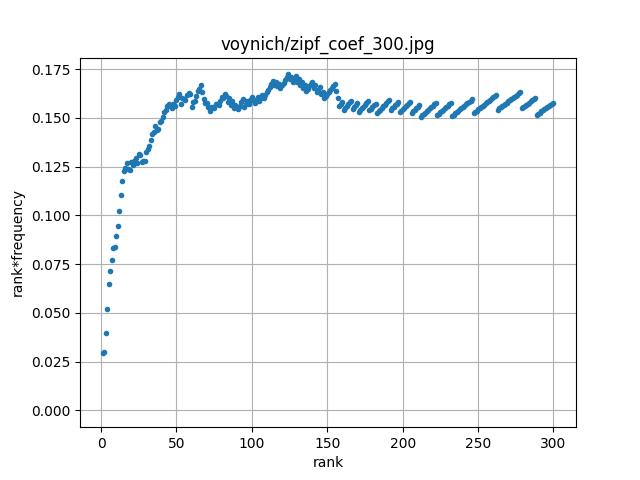
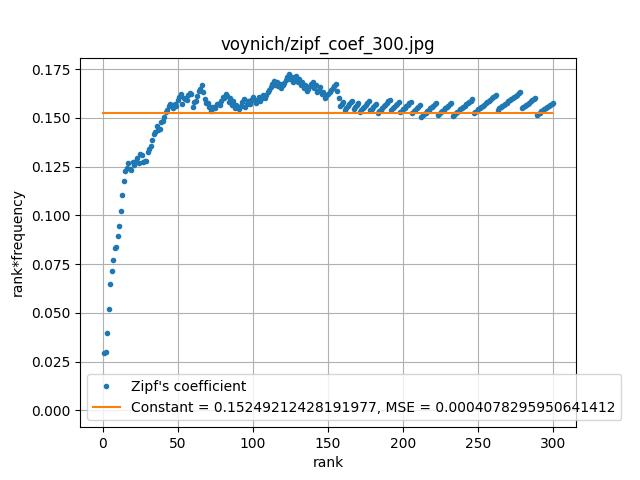
MSE

Changed region(s): [[0.125, 0.1562, 0.9688, 0.9375], [0.5, 0.75, 0.5312, 0.7812]]

diff --git a/zipf_law.py b/zipf_law.py
@@ -9,6 +9,10 @@ import numpy as np
 OUT_PATH = "out"
 
 
+def MSE(data, actual):
+    return (sum([(value - actual)**2 for value in data]))/len(data)
+
+
 def create_zipf_dict(words: List[str]):
     zipf = {}
     for word in words:
@@ -20,11 +24,25 @@ def create_zipf_dict(words: List[str]):
     return dict(sorted(zipf.items(), key=lambda item: -item[1]))
 
 
-def plot(x, y, xlabel, ylabel, path):
+def plot_with_fit(X, Y, xlabel, ylabel, path):
+    constant = np.polyfit(X, Y, 0)
     plt.figure()
-    plt.ylim(0 - max(y) / 20, max(y) + max(y) / 20)
+    plt.ylim(0 - max(Y) / 20, max(Y) + max(Y) / 20)
     plt.grid()
-    plt.plot(x, y, '.')
+    plt.plot(X, Y, '.', label="Zipf's coefficient")
+    plt.plot(list(constant)*len(X), label=f"Constant = {constant[0]}, MSE = {MSE(Y, constant[0])}")
+    plt.legend()
+    plt.xlabel(xlabel)
+    plt.ylabel(ylabel)
+    plt.title(path)
+    plt.savefig(os.path.join(OUT_PATH, path))
+
+
+def plot(X, Y, xlabel, ylabel, path):
+    plt.figure()
+    plt.ylim(0 - max(Y) / 20, max(Y) + max(Y) / 20)
+    plt.grid()
+    plt.plot(X, Y, '.')
     plt.xlabel(xlabel)
     plt.ylabel(ylabel)
     plt.title(path)
@@ -37,16 +55,16 @@ def plot_zipf(words: Dict[str, int], path):
 
     plot(ranks, frequency, "rank", "frequency",
          os.path.join(path, "zipf_all.jpg"))
-    plot(ranks, np.multiply(frequency, ranks), "rank", "rank*frequency",
-         os.path.join(path, "zipf_coef_all.jpg"))
+    plot_with_fit(ranks, np.multiply(frequency, ranks), "rank", "rank*frequency",
+                  os.path.join(path, "zipf_coef_all.jpg"))
     plot(ranks[:300], frequency[:300], "rank", "frequency",
          os.path.join(path, "zipf_300.jpg"))
-    plot(ranks[:300], np.multiply(frequency[:300], ranks[:300]), "rank",
-         "rank*frequency", os.path.join(path, "zipf_coef_300.jpg"))
+    plot_with_fit(ranks[:300], np.multiply(frequency[:300], ranks[:300]), "rank",
+                  "rank*frequency", os.path.join(path, "zipf_coef_300.jpg"))
     plot(ranks[:100], frequency[:100], "rank", "frequency",
          os.path.join(path, "zipf_100.jpg"))
-    plot(ranks[:100], np.multiply(frequency[:100], ranks[:100]), "rank",
-         "rank*frequency", os.path.join(path, "zipf_coef_100.jpg"))
+    plot_with_fit(ranks[:100], np.multiply(frequency[:100], ranks[:100]), "rank",
+                  "rank*frequency", os.path.join(path, "zipf_coef_100.jpg"))
 
 
 def read_voynich_words() -> List[str]:

diff --git a/README.md b/README.md
@@ -28,4 +28,7 @@ Język czeski
 Język z manuskryptu
 
 ### Wniosek
-Wykresy wskazują że dla słów o rangach 50-300 prawo Zipfa dla obu języków jest dobrze spełnione - odchylenia od stałej wartości są niewielkie. W przypadkuj języka z manuskryptu wojnicza, z pominięciem kilku najczęściej występujących słów, są one zauważalnie mniejsze niż w analizowanym czeskim tekście
+Wykresy wskazują że dla słów o rangach 50-300, prawo Zipfa dla obu języków jest dobrze spełnione - odchylenia od stałej wartości są niewielkie. W przypadku języka z manuskryptu Wojnicza, z pominięciem kilku najczęściej występujących słów, są one zauważalnie mniejsze niż w analizowanym czeskim tekście. Wartości błędów średniokwadratowych dla dopasowanej przy użyciu np.polyfit stałej są zbliżone
+
+## Analiza n-gramów
+...
